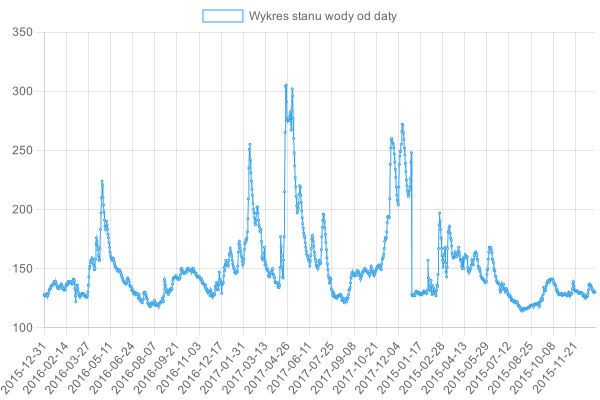
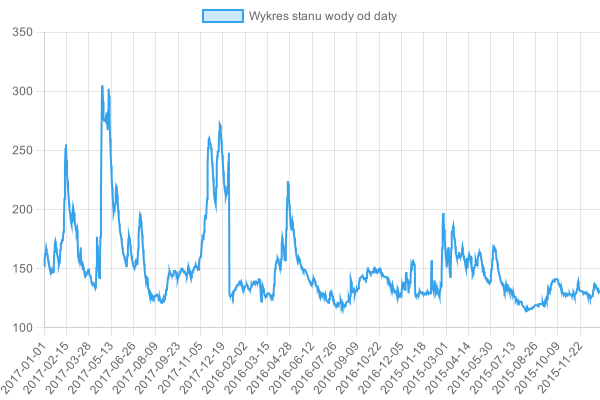
change how chart is being saved

Changed region(s): [[0.06, 0.09, 1.0, 0.81], [0.03, 0.84, 0.96, 0.99], [0.33, 0.0, 0.42, 0.06]]

diff --git a/chart.js b/chart.js
@@ -1,16 +1,16 @@
-import Chart from "chart.js/auto";
-import { createCanvas } from "canvas";
-import fs from "fs";
+import Chart from 'chart.js/auto';
+import { createCanvas } from 'canvas';
+import fs from 'fs';
 
-const getChart = (filenames) => {
+const getChart = (filenames, title) => {
   const data = [];
-  for(const filename of filenames){
-    fs.readFile(filename.toString(), "utf8", (err, fileData) => {
+  for (const filename of filenames) {
+    fs.readFile(filename.toString(), 'utf8', (err, fileData) => {
       if (err) {
         console.error(err);
         return;
       }
-      const rows = fileData.trim().split("\n");
+      const rows = fileData.trim().split('\n');
       rows.forEach((row) => {
         const [
           id,
@@ -21,35 +21,33 @@ const getChart = (filenames) => {
           dzien,
           stan_wody,
           przeplyw,
-        ] = row.split(",");
-        const dateString = `${rok}/${miesiac}/${dzien}`.replace(/"/g, "");
-        const date = new Date(dateString).toISOString().split("T")[0];
-        //console.log(date);
+        ] = row.split(',');
+
+        const date = `${rok}-${miesiac}-${dzien}`
+          .replace(/"/g, '')
+          .split('T')[0];
         data.push({ x: date, y: stan_wody });
       });
-      //console.log(data);
-  
-      const canvas = createChart(data);
-  
-      saveChart(canvas, filename);
-      
+      const canvas = createChart(data, title);
+
+      saveChart(canvas, filename, title);
     });
   }
 };
 
-const createChart = (data) => {
+const createChart = (data, title) => {
   const chartConfig = {
-    type: "line", // Typ wykresu liniowy
+    type: 'line', // Typ wykresu liniowy
     data: {
       labels: data.map((d) => d.x), // Oś x - wartości pierwszej kolumny
       datasets: [
         {
-          label: "Wykres stanu wody od daty",
+          label: title.toString(),
           data: data.map((d) => d.y), // Oś y - wartości drugiej kolumny
-          backgroundColor: "rgba(255,255,255)", // Kolor wypełnienia obszaru pod wykresem
-          borderColor: "rgba(54, 162, 235, 1)", // Kolor linii wykresu
-          borderWidth: 1, // Grubość linii wykresu
-          pointRadius: 1, //Brak zaznaczeń punktów
+          backgroundColor: 'rgba(54, 162, 235, 0.25)', // Kolor wypełnienia obszaru pod wykresem
+          borderColor: 'rgba(54, 162, 235,1)', // Kolor linii wykresu
+          borderWidth: 2, // Grubość linii wykresu
+          pointRadius: 0, //Brak zaznaczeń punktów
         },
       ],
     },
@@ -61,23 +59,24 @@ const createChart = (data) => {
           },
         },
       },
-      backgroundColor: "rgba(255, 255, 255, 1)"
     },
   };
 
   const canvas = createCanvas(600, 400); // Tworzenie canvasa o wymiarach 600x400 pikseli
-  const ctx = canvas.getContext("2d");
+  const ctx = canvas.getContext('2d');
   const chart = new Chart(ctx, chartConfig);
   return canvas;
 };
 
-const saveChart = (canvas, filename) => {
-    const chartName = filename.replace(".csv",".png").replace("./outputFiles", "./charts");
-    //console.log(chartName)
-    const out = fs.createWriteStream(chartName);
-    const stream = canvas.createPNGStream();
-    stream.pipe(out);
-    out.on("finish", () => console.log(`The ${chartName} file was created.`));
-}
+const saveChart = (canvas, filename, title) => {
+  const chartName = filename
+    .replace('.csv', `-${title.replace(/\s+/g, '-')}.png`)
+    .replace('./outputFiles', './charts');
+  //console.log(chartName)
+  const out = fs.createWriteStream(chartName);
+  const stream = canvas.createPNGStream();
+  stream.pipe(out);
+  out.on('finish', () => console.log(`The ${chartName} file was created.`));
+};
 
 export default getChart;

diff --git a/fetcher.js b/fetcher.js
@@ -1,28 +1,28 @@
-import helpers from "./helpers.js";
-import fs from "fs";
-import getChart from "./chart.js";
+import helpers from './helpers.js';
+import fs from 'fs';
+import getChart from './chart.js';
 const { getYearFromFilename, getRiverDataById, saveToFile } = helpers;
 
 const stations = {
-  152200020: "Trzciniec",
-  152200120: "Borkowo",
+  152200020: 'Trzciniec',
+  152200120: 'Borkowo',
 };
 const months = [
-  "01",
-  "02",
-  "03",
-  "04",
-  "05",
-  "06",
-  "07",
-  "08",
-  "09",
-  "10",
-  "11",
-  "12",
+  '01',
+  '02',
+  '03',
+  '04',
+  '05',
+  '06',
+  '07',
+  '08',
+  '09',
+  '10',
+  '11',
+  '12',
 ];
-const years = ["2015", "2016", "2017"];
-const folderPath = "./files";
+const years = ['2015', '2016', '2017'];
+const folderPath = './files';
 
 const selectedFiles = fs.readdirSync(folderPath).filter((filename) => {
   const regex = /^codz_([0-9]{4})_([0-9]{2}).csv$/;
@@ -39,8 +39,8 @@ stationKeys.forEach(async (station) => {
     if (!year) continue;
 
     try {
-      const data = await fs.promises.readFile(`${folderPath}/${file}`, "utf-8");
-      const lines = data.split("\n");
+      const data = await fs.promises.readFile(`${folderPath}/${file}`, 'utf-8');
+      const lines = data.split('\n');
       const rivers = lines.filter((line) => {
         return getRiverDataById(line, station);
       });
@@ -54,10 +54,10 @@ stationKeys.forEach(async (station) => {
       if (file === selectedFiles[selectedFiles.length - 1]) {
         saveToFile(station, filteredDataByYear, stations)
           .then((filenames) => {
-            getChart(filenames);
+            getChart(filenames, 'Wykres stanu wody od daty');
           })
           .catch((err) => {
-            console.error("Wystąpił błąd:", err);
+            console.error('Wystąpił błąd:', err);
           });
       }
     } catch (err) {
